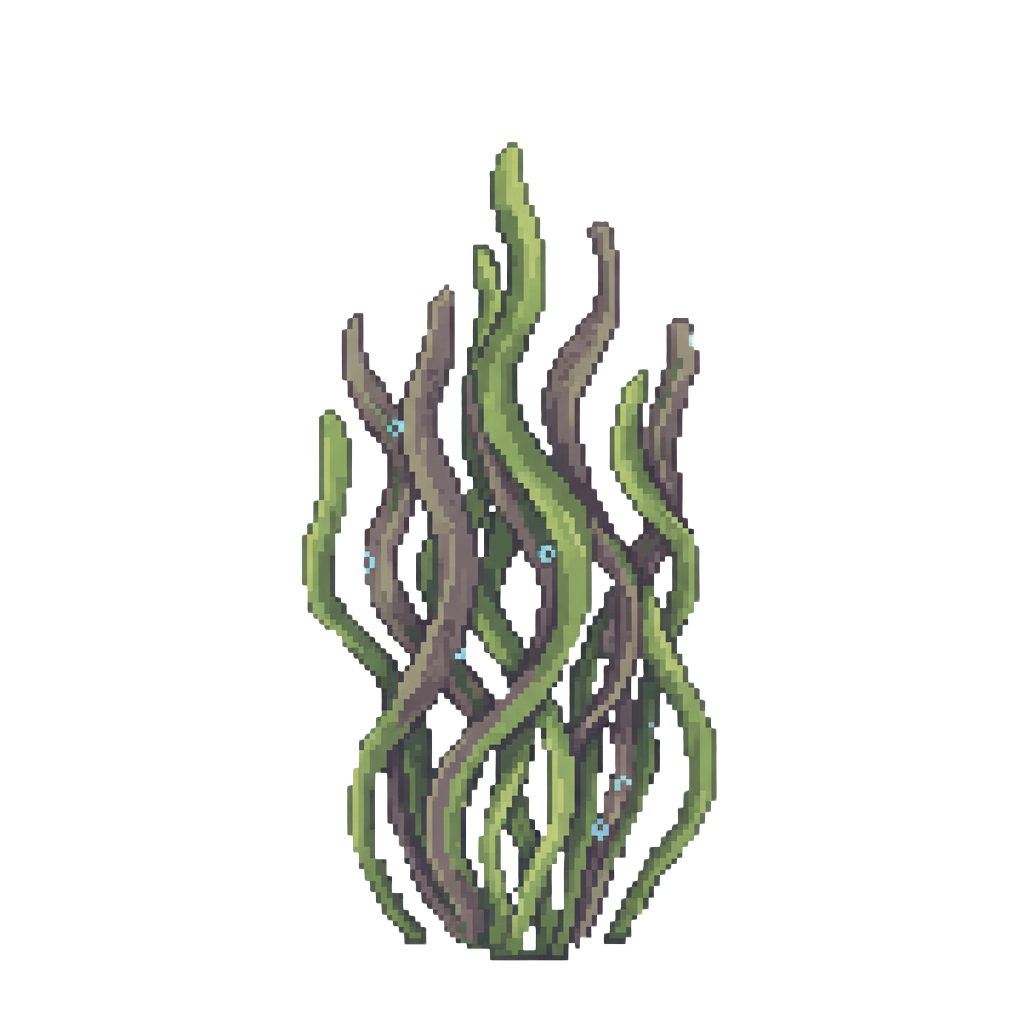
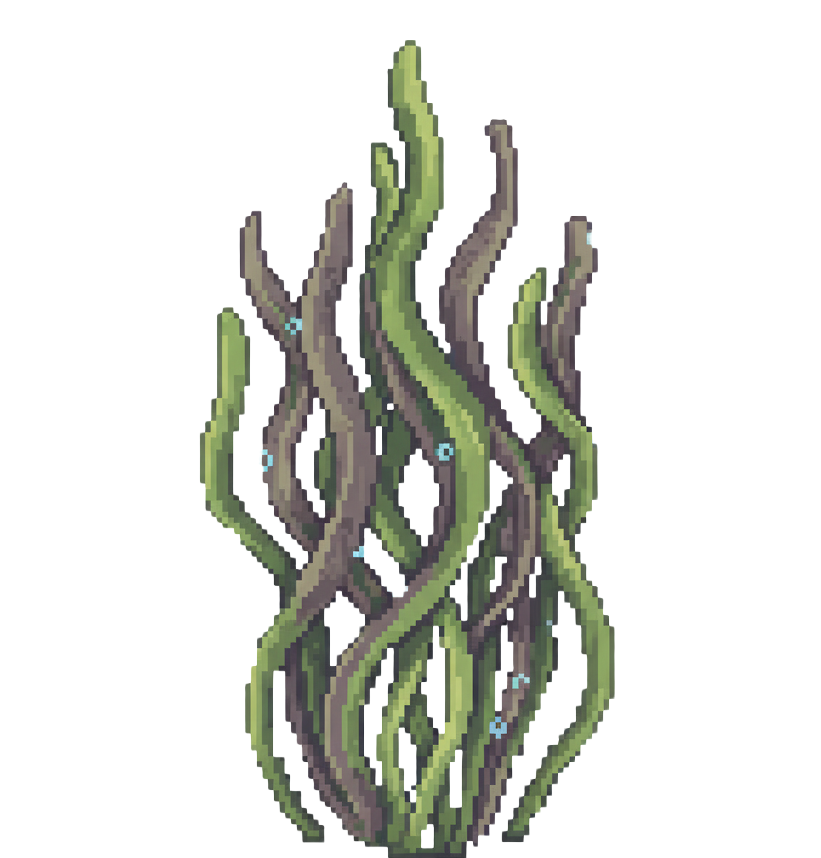
seaweed position adjustment

Changed region(s): [[0.2436, 0.0303, 0.7613, 1.0]]

diff --git a/3d-pixel-aquarium/components/FishTank.tsx b/3d-pixel-aquarium/components/FishTank.tsx
@@ -105,15 +105,21 @@ const Seaweed: React.FC<{ count: number }> = ({ count }) => {
 
   // Generate random seaweed positions and sizes
   const seaweeds = useMemo(() => {
-    return Array.from({ length: 6 }).map((_, i) => ({
-      id: i,
-      position: [
-        (Math.random() - 0.5) * (TANK_SIZE.width - 1),
-        -TANK_SIZE.height / 2 + 1,
-        (Math.random() - 0.5) * (TANK_SIZE.depth - 1),
-      ] as [number, number, number],
-      scale: 1.5 + Math.random() * 2, // Random size between 1.5 and 3.5
-    }));
+    return Array.from({ length: 6 }).map((_, i) => {
+      const scale = 1.5 + Math.random() * 2; // Random size between 1.5 and 3.5
+      const baseY = -TANK_SIZE.height / 2;
+      const yOffset = 0.5 + (scale - 1.5) * 0.8; // Much larger shift for taller seaweed
+
+      return {
+        id: i,
+        position: [
+          (Math.random() - 0.5) * (TANK_SIZE.width - 1),
+          baseY + yOffset,
+          (Math.random() - 0.5) * (TANK_SIZE.depth - 1),
+        ] as [number, number, number],
+        scale: scale,
+      };
+    });
   }, []);
 
   React.useEffect(() => {
@@ -147,8 +153,8 @@ const Seaweed: React.FC<{ count: number }> = ({ count }) => {
 
 // Table/Desk Component
 const Table: React.FC = () => {
-  const tableY = -TANK_SIZE.height / 2 - 0.1; // Position right below tank
-  const tableHeight = 0.1;
+  const tableY = -TANK_SIZE.height / 2 - 0.15; // Position lower to account for thickness
+  const tableHeight = 0.2; // Increased thickness
   const tableWidth = TANK_SIZE.width + 1;
   const tableDepth = TANK_SIZE.depth + 0.5;
   const legHeight = 1.5;
